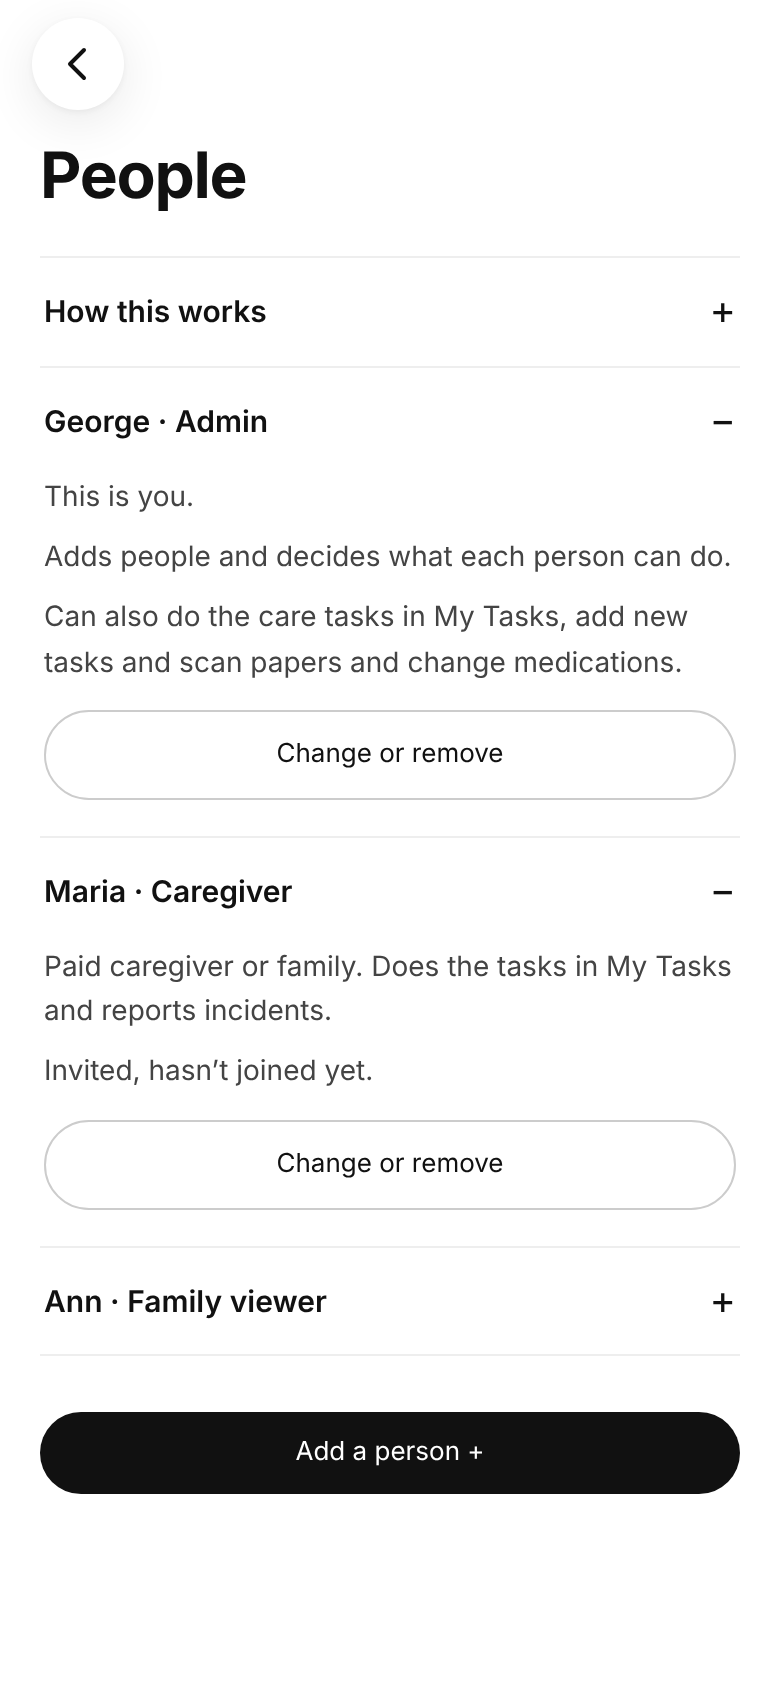
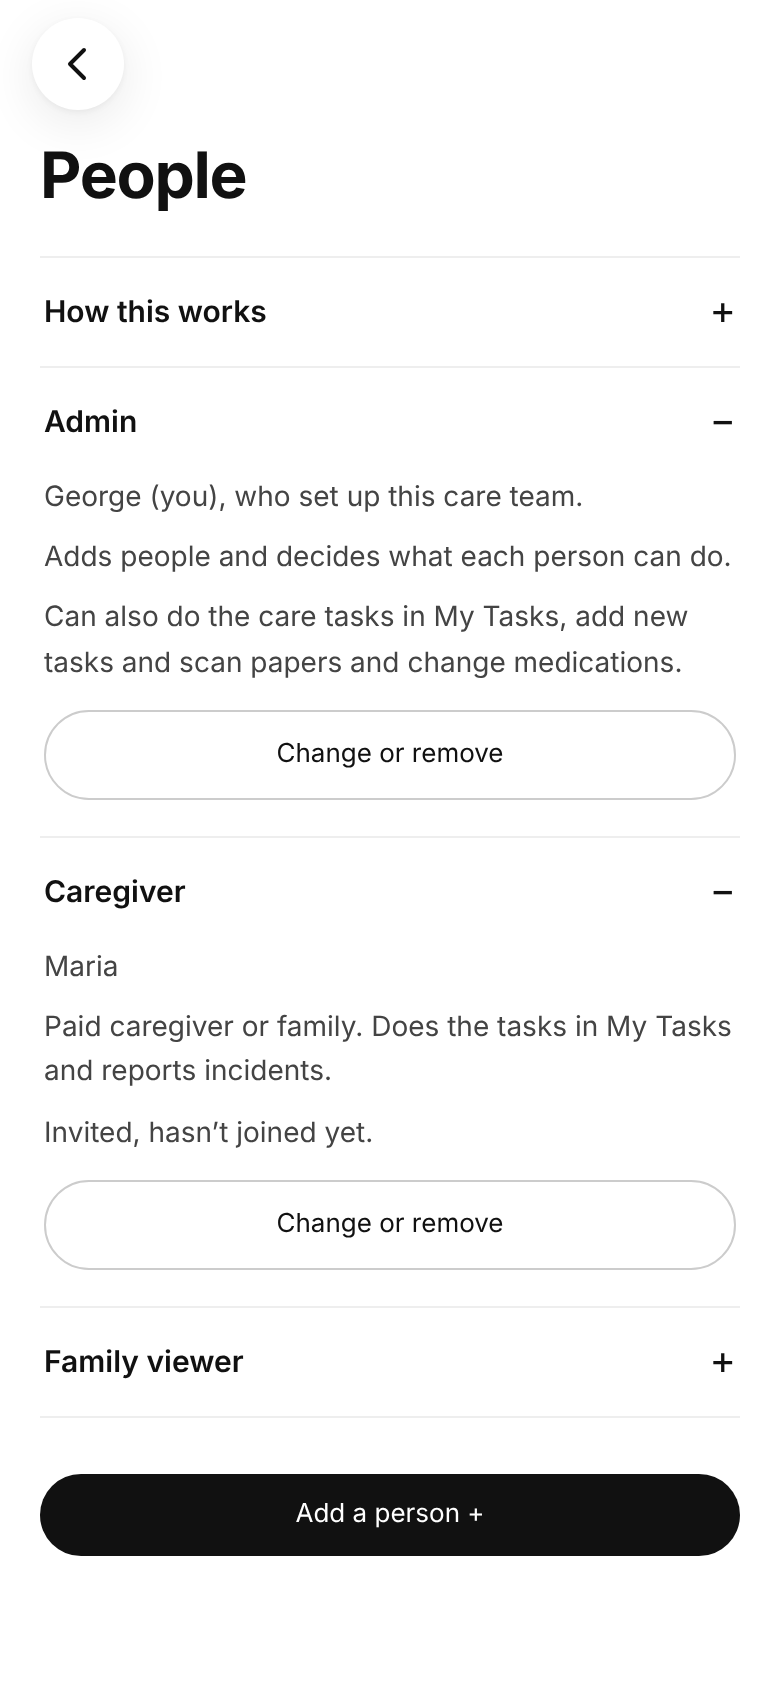
People: each row shows only the role; the name is inside
Claude-Session: https://claude.ai/code/session_01VR3ER6vT6PT8rhbUvLo5rQ

diff --git a/team.js b/team.js
@@ -8,11 +8,11 @@ let team={state:'idle',data:null,error:''},personId='',invite=null;
 const showPhone=p=>/^\+1\d{10}$/.test(p)?`(${p.slice(2,5)}) ${p.slice(5,8)}-${p.slice(8)}`:p;
 const teamAdmin=()=>team.data?.me.role==='admin';
 async function loadTeam(){team={...team,state:'loading'};try{team={state:'done',data:await Account.api('GET','/api/team'),error:''}}catch(err){team={state:'error',data:team.data,error:err.message}}if(['people','person','person-add'].includes(view))render()}
-/* Each person folds open, like How this works: their role in plain words, where their invite stands and what else they can
+/* Each person folds open, like How this works, under their role alone: their name, their role in plain words, where their invite stands and what else they can
    do. Admins change their role or remove them from there. */
 const PERM_SAY={tasks:'do the care tasks in My Tasks',addTasks:'add new tasks',meds:'scan papers and change medications'};
 const alsoLine=m=>{const l=m.role==='viewer'?[]:Object.keys(PERM_SAY).filter(k=>m.perms[k]&&!(m.role==='caregiver'&&k==='tasks')).map(k=>PERM_SAY[k]);return l.length?`Can also ${l.length>1?l.slice(0,-1).join(', ')+' and '+l[l.length-1]:l[0]}.`:''};
-function personRow(m){const lines=[m.you?'This is you.':m.owner?'Set up this care team.':'',ROLE_HELP[m.role],alsoLine(m),m.status==='invited'?'Invited, hasn’t joined yet.':''].filter(Boolean);return `<details class="take-more"><summary>${esc(m.name)} · ${ROLE_NAMES[m.role]}</summary><div class="today-help">${lines.map(l=>`<p>${esc(l)}</p>`).join('')}${teamAdmin()&&m.id!=='owner'?`<button class="outline-button people-done" data-person="${esc(m.id)}">Change or remove</button>`:''}</div></details>`}
+function personRow(m){const lines=[`${m.name}${m.you?' (you)':''}${m.owner?', who set up this care team.':''}`,ROLE_HELP[m.role],alsoLine(m),m.status==='invited'?'Invited, hasn’t joined yet.':''].filter(Boolean);return `<details class="take-more"><summary>${ROLE_NAMES[m.role]}</summary><div class="today-help">${lines.map(l=>`<p>${esc(l)}</p>`).join('')}${teamAdmin()&&m.id!=='owner'?`<button class="outline-button people-done" data-person="${esc(m.id)}">Change or remove</button>`:''}</div></details>`}
 function peoplePage(){const d=team.data;if(!d)return `<section class="sub-page prose">${subHeader('People','settings')}<p class="sub-note">${esc(team.state==='error'?team.error:'Loading…')}</p></section>`;
 const me=d.members.find(m=>m.you);return `<section class="sub-page settings-page">${subHeader('People','settings')}<details class="take-more" style="border-bottom:0"><summary>How this works</summary><div class="today-help"><p>Everyone on this care team sees the same medications, daily care report and photos.${teamAdmin()?' Add family and paid caregivers, and choose what each person can do.':''}</p></div></details><div class="people-list">${d.members.map(personRow).join('')}</div>${teamAdmin()?d.plan&&!d.plan.canAdd?`<p class="sub-note">${d.plan.status==='lapsed'?'This family’s plan has ended, so nobody new can be added. Everyone here still sees everything.':d.plan.tier?`The ${esc(d.plan.tier)} plan is full. Upgrade to add someone.`:'This care team is full.'}</p><button class="primary people-add" data-menu-go="subscription">${d.plan.status==='lapsed'?'Pay for the plan':'See plans'}</button>`:'<button class="primary people-add" data-menu-go="person-add">Add a person +</button>':''}${me&&!me.owner?'<button class="danger-button" id="team-leave">Leave this care team</button>':''}</section>`}
 function roleFields(role,perms){return `<fieldset class="role-pick"><legend>What they’ll do</legend>${['viewer','caregiver','admin'].map(r=>`<label class="packing-row"><input type="radio" name="role" value="${r}"${r===role?' checked':''}><span><strong>${ROLE_NAMES[r]}</strong><small>${ROLE_HELP[r]}</small></span></label>`).join('')}</fieldset><fieldset class="role-perms"><legend>They can also</legend>${PERM_NAMES.map(([k,l])=>`<label class="packing-row"><input type="checkbox" name="${k}"${perms[k]?' checked':''}><span>${l}</span></label>`).join('')}</fieldset>`}

diff --git a/sw.js b/sw.js
@@ -1,6 +1,6 @@
 /* Adltrack service worker: keeps the app shell for offline starts, shows daily reminders sent by Web Push while the app is
    closed with their action buttons, and opens the item's Return step when one is tapped. Account data (/api/) is never cached here. */
-const SHELL = 'returnly-shell-v20';
+const SHELL = 'returnly-shell-v21';
 const SHELL_FILES = ['app.html', 'index.html', 'signin.html', 'signup.html', 'forgot.html', 'reset.html', 'email.html', 'join.html', 'style.css', 'on.css', 'klarna.css', 'precision.css', 'guided.css', 'home.css', 'menu.css', 'mobile.css', 'landing.css', 'type.css',
   'core.js', 'nudge.js', 'account.js', 'auth.js', 'app.js', 'features.js', 'klarna.js', 'precision.js', 'guided.js', 'home.js', 'schedule.js', 'refills.js', 'menu.js', 'push.js', 'remind.js', 'today.js', 'report.js', 'team.js', 'plan.js', 'patients.js', 'plus.js', 'can.js', 'landing.js', 'oracle.woff2', 'assets/roboto-serif-light.woff2', 'assets/inter-var.woff2',
   'manifest.webmanifest', 'assets/icon-192.png', 'assets/icon-512.png', 'assets/apple-touch-icon.png'];
